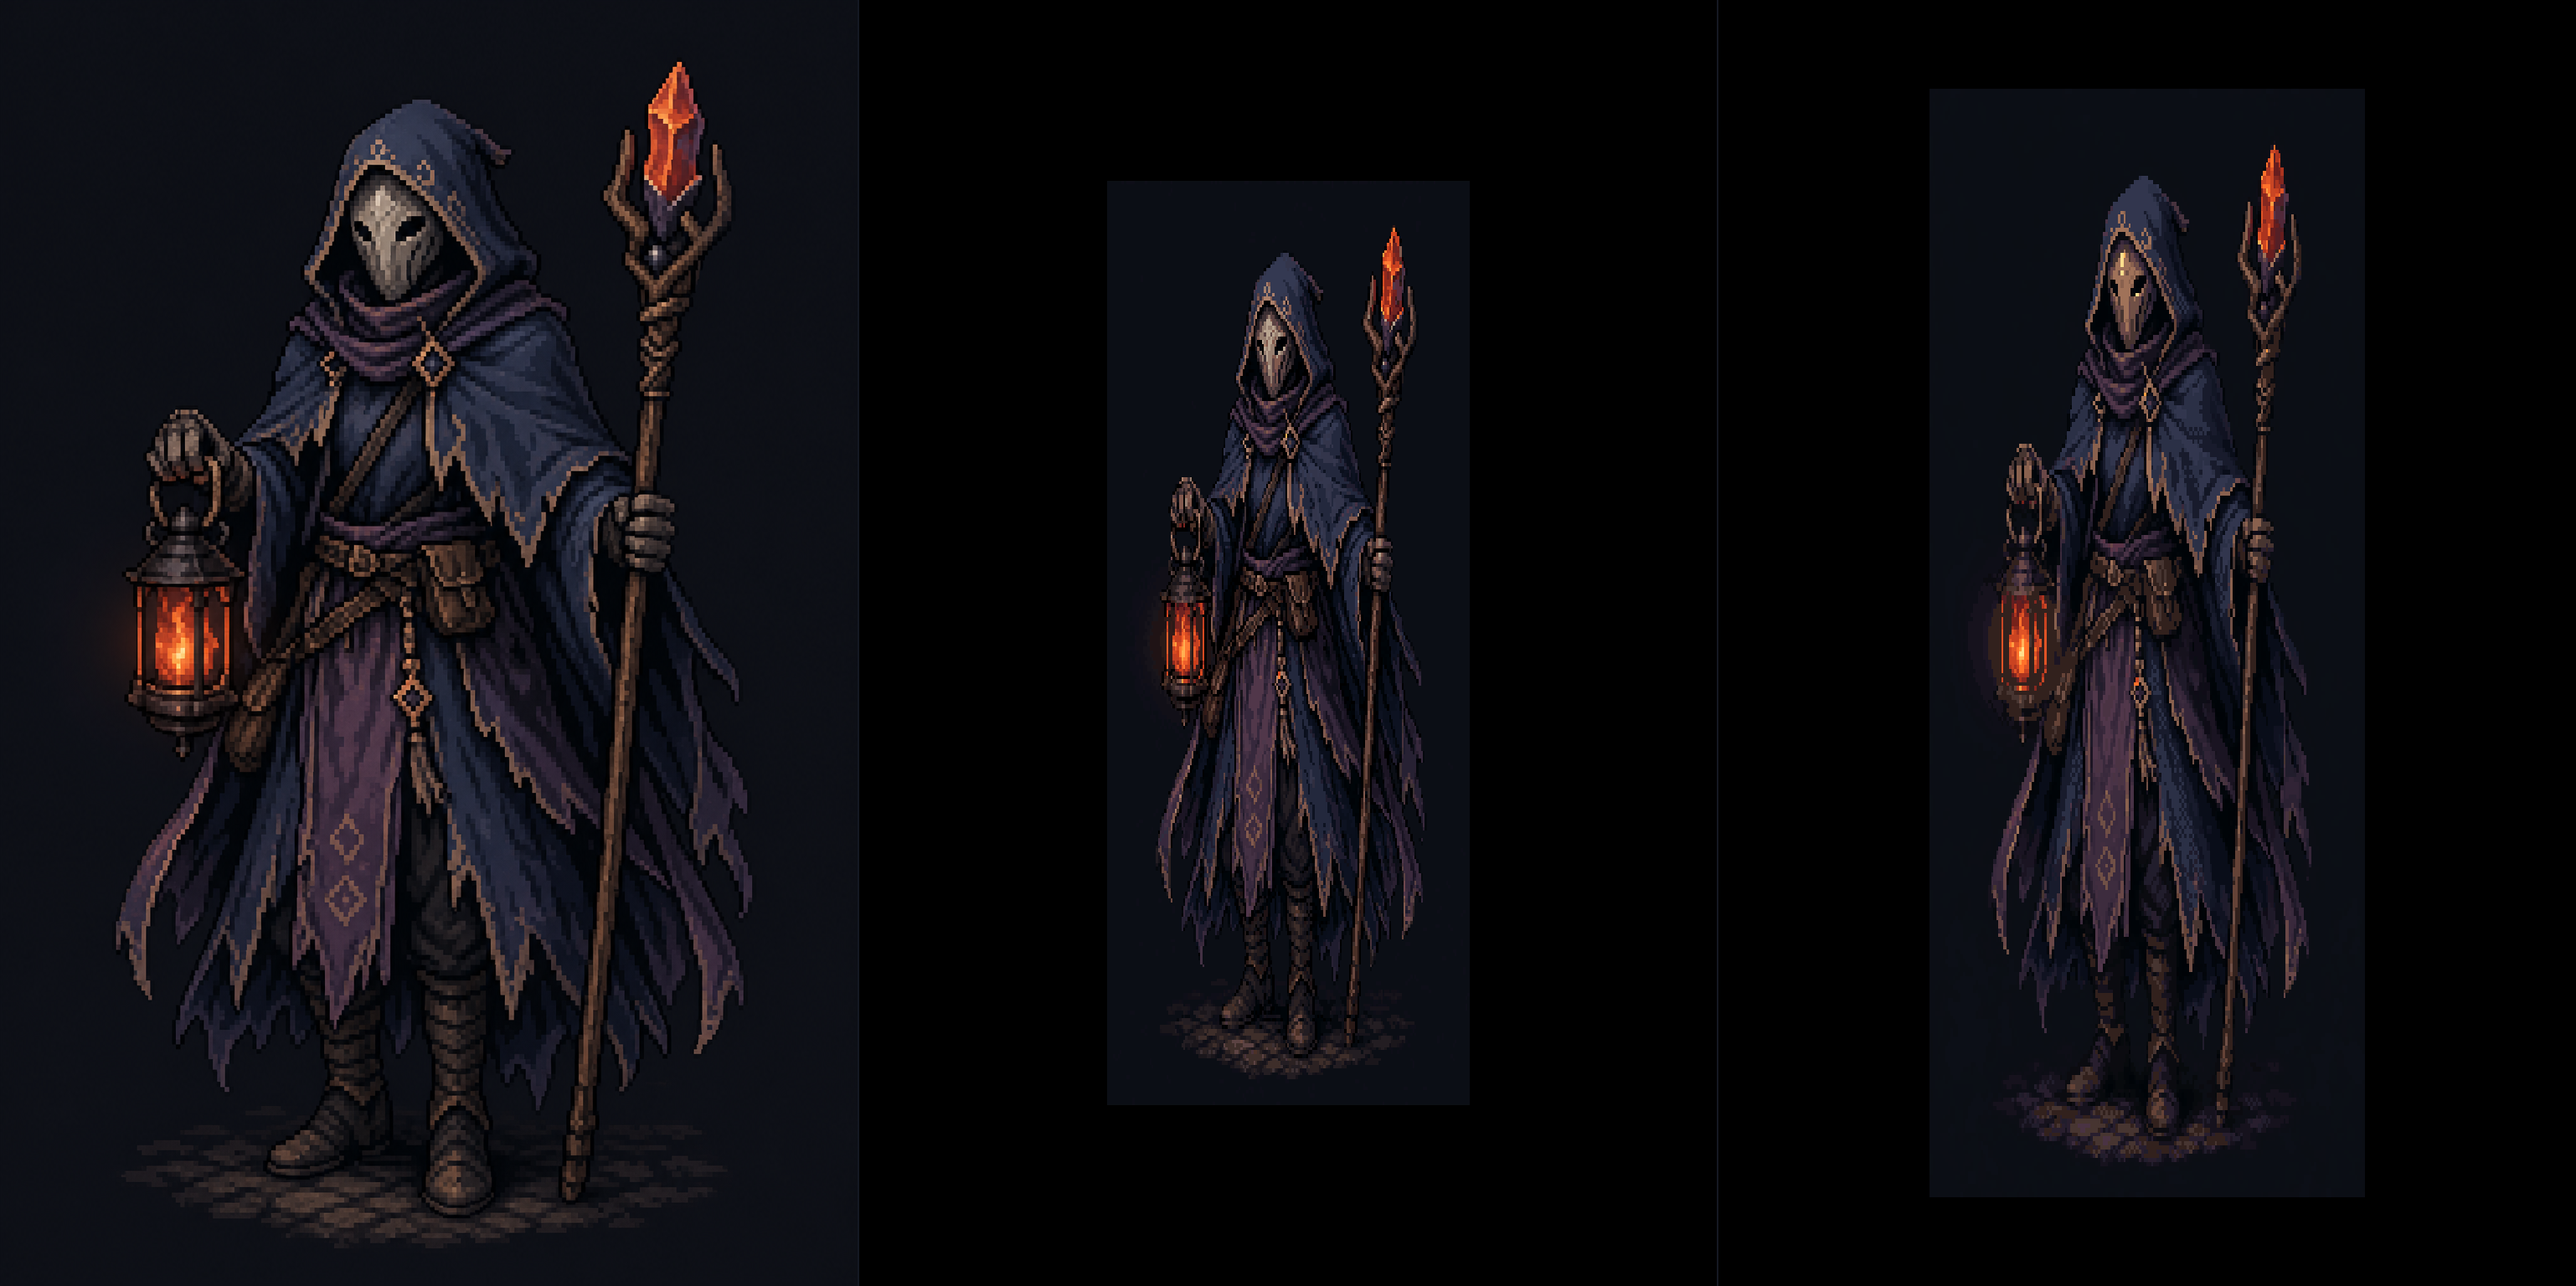
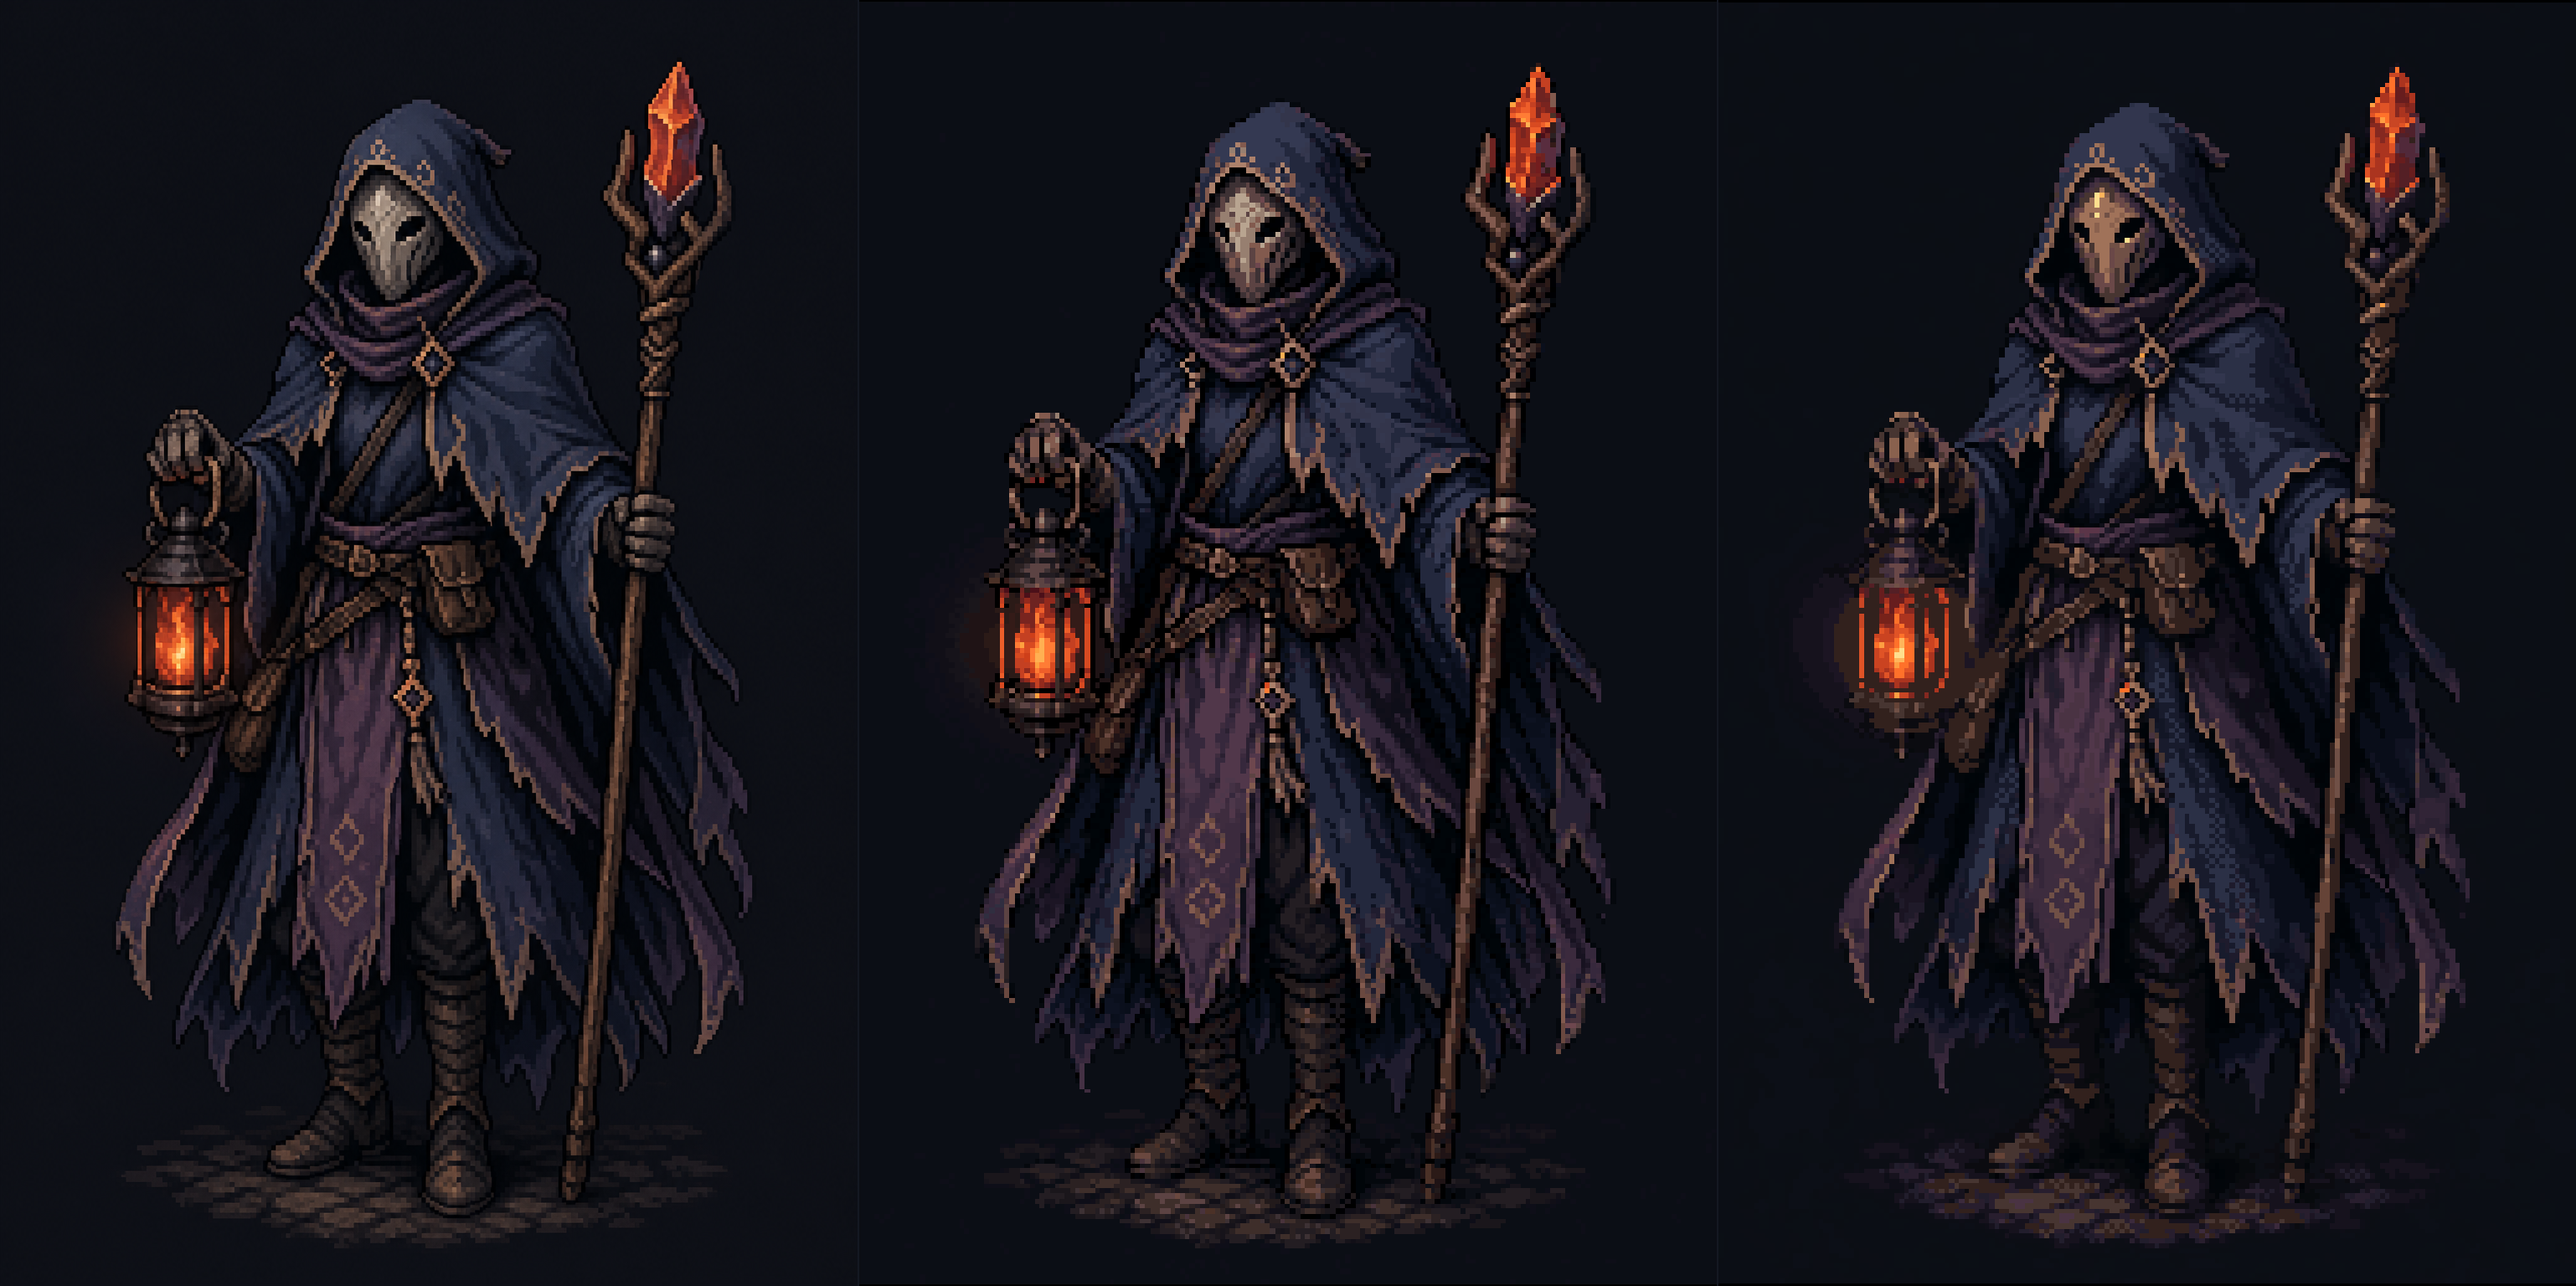
Fix character comparison scaling

Changed region(s): [[0.6866, 0.0625, 0.9675, 0.9688], [0.3433, 0.0625, 0.6242, 0.9688], [0.9987, 0.875, 1.0, 0.9062]]

diff --git a/docs/examples/README.md b/docs/examples/README.md
@@ -8,6 +8,6 @@ This source image is a GPT/imagegen-style pixel-art character with visible pseud
 
 ## Original And Pixel Art Lab Variants
 
-Left to right: original GPT/imagegen mixel source, variant 2, variant 1. The variants are nearest-neighbor scaled to the original image size.
+Left to right: original GPT/imagegen mixel source, variant 2, variant 1. The variants are cropped to their active art area, matched to the original aspect ratio, then nearest-neighbor scaled to the original image size.
 
 ![Original, Variant 2, Variant 1](gpt-character-generation-original-v2-v1-comparison.png)
